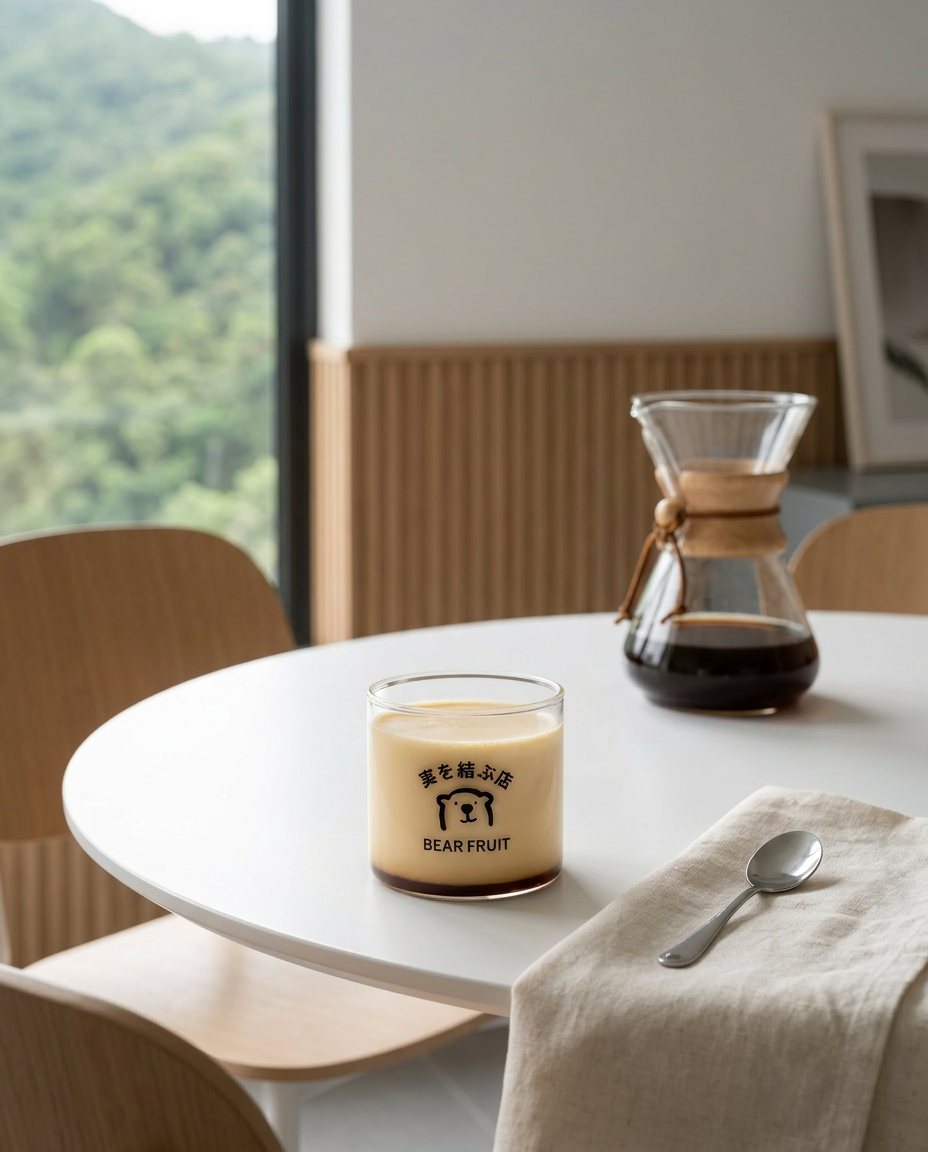
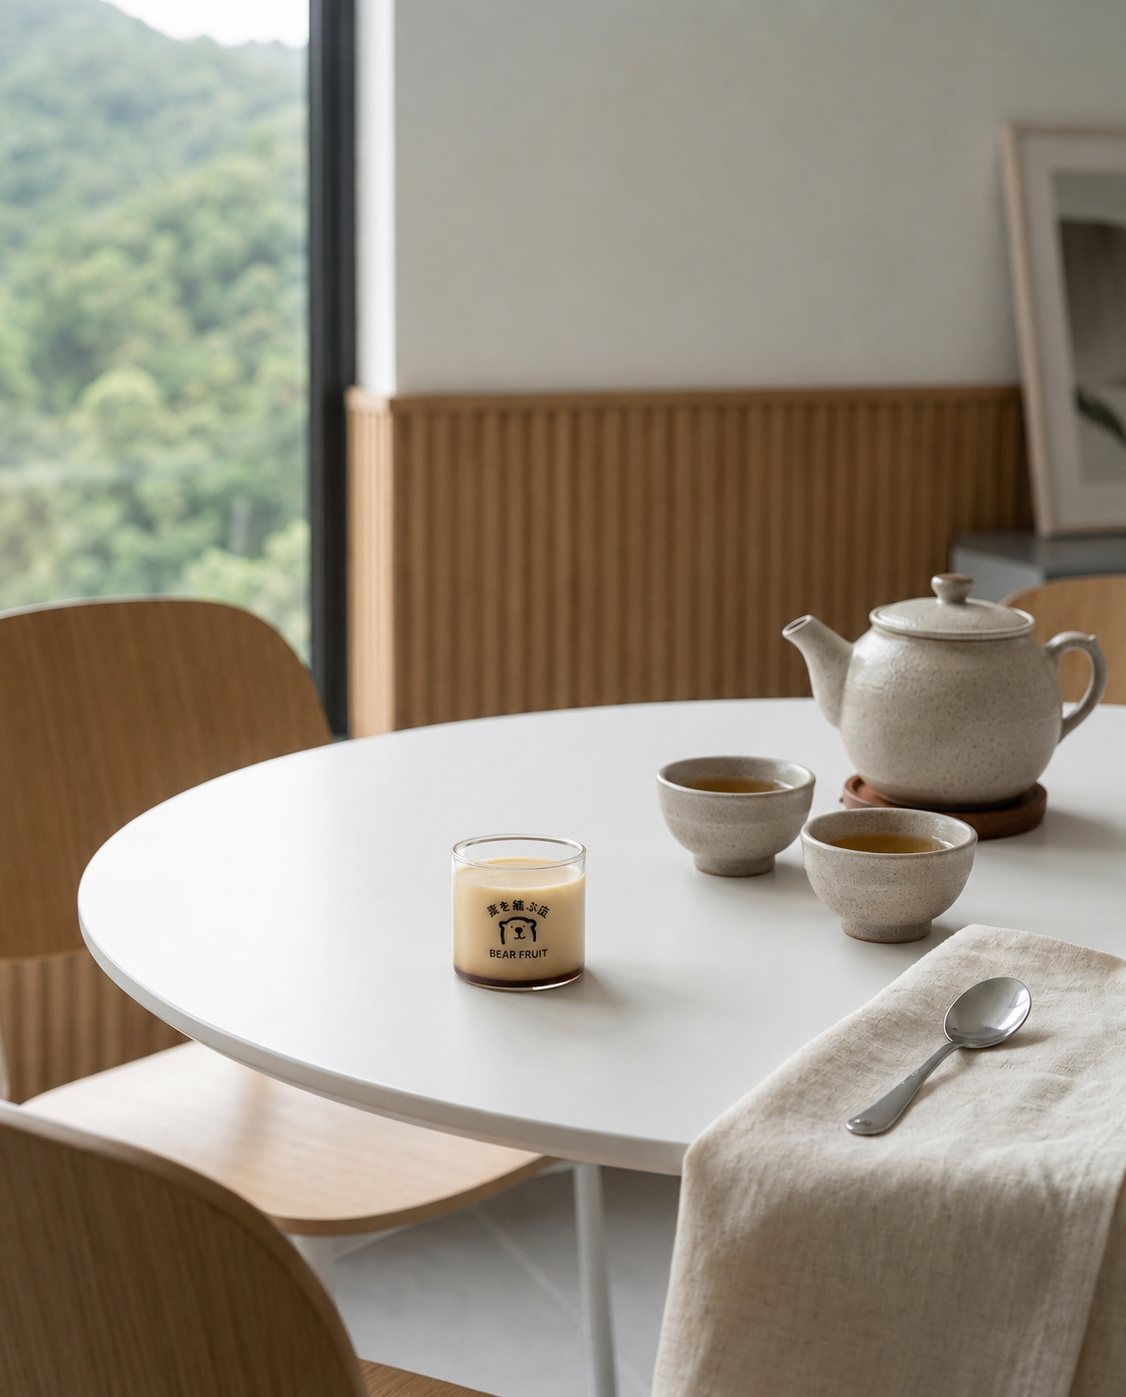
Refresh hero and our-value photos, drop shop-2, price the Flan
- New hero-bg and our-value photos, with .webp copies regenerated from the
  updated PNGs (that is what the pages actually load)
- Hero on phones: a 375-wide screen is so much taller than the 4:5 photo that
  cover() drops ~43% of its width, which split the pair down the middle.
  Below 600px the crop is biased to 85% so it lands on her and the table
- Shop panel is a single still now that shop-2 is gone; also removed the
  shop-3 <img>, which pointed at a file that never existed
- Flan detail page lists its one way to enjoy: Vanilla Pecan Flan, HK$68,
  using the product photo. That replaces the enquire-in-store note

diff --git a/index.html b/index.html
@@ -800,6 +800,11 @@
       .nav__order { padding: 8px 16px; font-size: 0.65rem; }
       .nav__logo { height: 26px; }
       .nav.scrolled .nav__logo { height: 24px; }
+
+      /* A phone screen is far taller than the 4:5 hero photo, so cover() drops
+         roughly 43% of its width. Bias the crop right so it lands on her and
+         the table rather than splitting the pair down the middle. */
+      .hero__video { object-position: 85% center; }
     }
 
     /* ── Keyboard focus (accessibility) ─────────────────────── */
@@ -1094,15 +1099,14 @@
   <section id="shops" aria-label="Our Shop">
     <div class="shops__grid">
 
-      <!-- Store photos — cross-fade. Add images/shop/shop-1.webp … shop-3.webp -->
+      <!-- Store photo. Drop in images/shop/shop-2.webp (and a matching <img> below)
+           to bring the cross-fade back — data-rotate starts once there are two. -->
       <div class="shops__photos" data-rotate aria-label="Our shop">
         <div class="ph" aria-hidden="true">
           <span class="ph-label">Shop Photo</span>
-          <span class="ph-spec">images/shop/<br>shop-1.webp … shop-3.webp</span>
+          <span class="ph-spec">images/shop/<br>shop-1.webp</span>
         </div>
         <img src="images/shop/shop-1.webp" class="is-active" alt="Bear Fruit — The Wai store" loading="lazy" onerror="this.remove()">
-        <img src="images/shop/shop-2.webp" alt="Bear Fruit — The Wai store" loading="lazy" onerror="this.remove()">
-        <img src="images/shop/shop-3.png" alt="Bear Fruit — The Wai store" loading="lazy" onerror="this.remove()">
       </div>
 
       <div class="shops__panel">

diff --git a/product.html b/product.html
@@ -185,7 +185,7 @@
       images:['images/products/flan/vanilla-pecan-flan.webp'],
       flavoursEn:['Vanilla Pecan'],
       flavoursTc:['雲呢拿碧根果'],
-      pack:[]
+      pack:[{en:'Vanilla Pecan Flan',tc:'雲呢拿碧根果吉士撻',price:'HK$68',img:'images/products/flan/vanilla-pecan-flan.webp'}]
     }
   };
   const ORDER = ['bare-mochi','stuffed-mochi','custard-pudding','liege-waffle','flan'];

diff --git a/images/shop/README.md b/images/shop/README.md
@@ -1,16 +1,16 @@
 # Shop photos
 
 Photos of the physical store, shown in the "Our Shop" section on the home page.
-They cross-fade automatically (same technique as the product photos). Add 2–3.
+Only `shop-1` is in use right now, so the panel shows a single still.
 
 **Best format:** landscape, ~1600 × 2000 px (fills a tall half-screen panel), optimised PNG/JPG.
 
 ```
 images/shop/
-├── shop-1.png    (shown first)
-├── shop-2.png
-└── shop-3.png    (optional)
+└── shop-1.png    ← + shop-1.webp for the site
 ```
 
-Name them exactly `shop-1.png`, `shop-2.png`, `shop-3.png`. Until added, a
-labelled placeholder tile shows in their place.
+To go back to a cross-fade, add `shop-2.png` (plus a `.webp` copy) and one
+matching `<img>` line in the `.shops__photos` block in `index.html` — the
+rotation starts by itself once a second photo is there. Until a photo exists,
+a labelled placeholder tile shows in its place.

diff --git a/images/products/packaging/README.md b/images/products/packaging/README.md
@@ -20,8 +20,8 @@ images/products/packaging/
 ├── liege-waffle-2.png     ← Rich Cocoa Chocolate 香濃朱古力 (HK$22)
 └── liege-waffle-3.png     ← Kyoto Hojicha 京都焙茶     (HK$24)
 
-(Flan has no packaging options listed yet — its detail page shows an
-enquire-in-store note until sizes and prices are confirmed.)
+(Flan needs no file here — it reuses its own product photo,
+ images/products/flan/vanilla-pecan-flan.webp, at HK$68.)
 ```
 
 Prices and option names live in `product.html` (the `PRODUCTS` object) — edit there.
